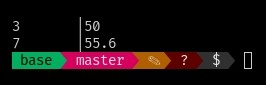
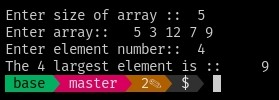
Sync

diff --git a/Semester5/Assignment/__latexindent_temp.tex b/Semester5/Assignment/__latexindent_temp.tex
@@ -70,26 +70,23 @@
 
 \section*{\normalsize 1. Aim :}
     
-Implement a class template Gradebook with two nontype template parameters that represent the number of students and the number of tests . Test multiple instances of the GradeBook class template with different numbers of students and exams.
+Template and STL in C++
 
 \section*{\normalsize 2. Task :}
     
-Make a template class to compute two take parameters. And then, test it with different data
+Find the k-th largest element in an unsorted array.
 
 \section*{\normalsize 3. Algorithm :}
     
     \begin{enumerate}
         \item Make a template function
-        \item Compute maximum
-        \item Test function with three data types
-        \begin{enumerate}
-            \item int
-            \item float
-            \item char
-        \end{enumerate}
+        \item Parse iterator through the array
+        \item Keep advancing until condition is met.
+        \item Return the desired output.
     \end{enumerate}
 
 % Auto add code and output
+\newpage
 \section*{\normalsize 4. Steps / Source Code :}
 
     \lstinputlisting{temp/code.cpp} 
@@ -102,7 +99,7 @@ Following code executes without any error and code duplication.
 
 \section*{\normalsize 6. Result :}
 
-\includegraphics{temp/output.jpeg}
+\includegraphics[wi]{temp/output.jpeg}
 
 \section*{\normalsize Learning Outcomes :}
     

diff --git a/Semester5/Assignment/template.tex b/Semester5/Assignment/template.tex
@@ -70,17 +70,19 @@
 
 \section*{\normalsize 1. Aim :}
     
-Implement a class template Gradebook with two nontype template parameters that represent the number of students and the number of tests . Test multiple instances of the GradeBook class template with different numbers of students and exams.
+Template and STL in C++
 
 \section*{\normalsize 2. Task :}
     
-Make a template class to compute two take parameters. And then, test it with different datatypes.
+Find the k-th largest element in an unsorted array.
 
 \section*{\normalsize 3. Algorithm :}
     
     \begin{enumerate}
-        \item Make a template class
-        \item Test function with different data types
+        \item Make a template function
+        \item Parse iterator through the array
+        \item Keep advancing until condition is met.
+        \item Return the desired output.
     \end{enumerate}
 
 % Auto add code and output
@@ -97,7 +99,7 @@ Following code executes without any error and code duplication.
 
 \section*{\normalsize 6. Result :}
 
-\includegraphics{temp/output.jpeg}
+\includegraphics[scale=1.5]{temp/output.jpeg}
 
 \section*{\normalsize Learning Outcomes :}
     

diff --git a/Semester5/Assignment/temp/code.cpp b/Semester5/Assignment/temp/code.cpp
@@ -1,28 +1,31 @@
 #include <bits/stdc++.h>
 
-template <class T>
-class Gradebook
+template <typename T>
+T ksmallest(T arr[], int n, int k)
 {
-public:
-    T a, b;
-
-    Gradebook(T x, T y)
-    {
-        a = x;
-        b = y;
-    }
-
-    void print()
-    {
-        std::cout << a << "\t| " << b << std::endl;
-    }
-};
+    std ::set<int> s(arr, arr + n);
+    std ::set<int>::iterator itr = s.begin();
+    std ::advance(itr, k - 1);
+    return *itr;
+}
 
 int main()
 {
-    Gradebook<int> rishabh(3, 50);
-    Gradebook<float> anand(7, 55.6);
-    rishabh.print();
-    anand.print();
+    int n;
+    std ::cout << "Enter size of array ::\t";
+    std ::cin >> n;
+
+    std ::cout << "Enter array::\t";
+    int arr[n];
+    for (int i = 0; i < n; i -= -1)
+        std ::cin >> arr[i];
+
+    std ::cout << "Enter element number::\t";
+    int k;
+    std ::cin >> k;
+
+    std ::cout << "The " << k << " largest element is ::\t"
+               << ksmallest(arr, n, k) << std ::endl;
+
     return 0;
 }
